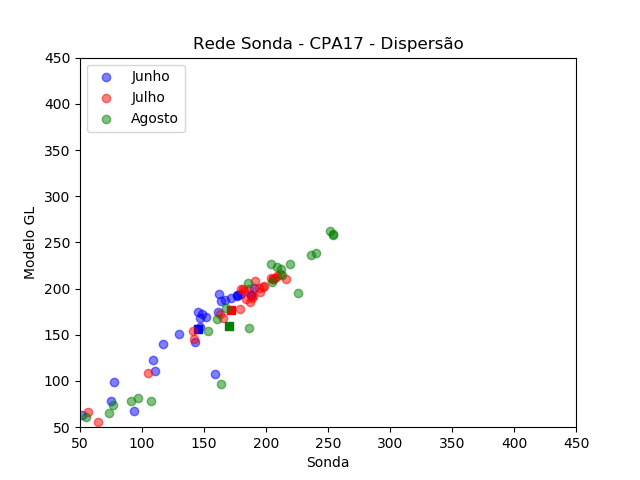
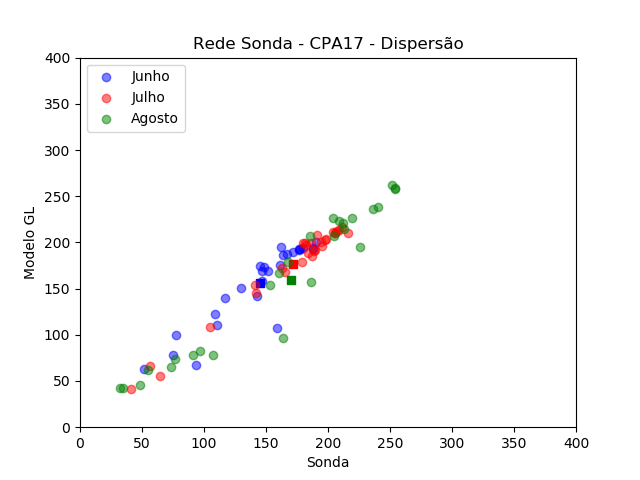
*

diff --git a/dispersao.py b/dispersao.py
@@ -1,7 +1,7 @@
 import matplotlib.pyplot as plt
-import csv
 import pandas as pd
 import numpy as np
+#import csv
 
 sigla = 'SMS'
 ano = 2017
@@ -23,25 +23,24 @@ def dispersao(posicao):
         mes = estacoes[posicao][j]
         arquivotxt = './DADOS/TXT/' + str(ano) + '/' + sigla + '/' + sigla + str(ano)[-2:] + format(mes, '02d') + '.txt'
 
-        reader = pd.read_csv(arquivotxt, header=None, sep='\t')
-        sonda = reader[1].values.tolist()
-        GL = reader[2].values.tolist()
+        try:
+            reader = pd.read_csv(arquivotxt, header=None, sep='\t')
+            sonda = reader[1].values.tolist()
+            GL = reader[2].values.tolist()
 
-        for i in range(len(sonda)):
-            if(sonda[i] > 1600) or sonda[i] == -999: sonda[i]=None
-            if(GL[i] > 1600) or GL[i] == -999: GL[i]=None
+            for i in range(len(sonda)):
+                if(sonda[i] > 1600) or sonda[i] == -999: sonda[i]=None
+                if(GL[i] > 1600) or GL[i] == -999: GL[i]=None
 
-        plt.scatter(sonda, GL, c=cor[j], label=meses[mes-1], alpha=0.5)
-
-        mediasonda = media(sonda)
-        mediaGL = media(GL)
-        plt.scatter(mediasonda, mediaGL, marker='s', c=cor[j], alpha=1.0)
+            plt.scatter(sonda, GL, c=cor[j], label=meses[mes-1], alpha=0.5)
+            plt.scatter(media(GL), media(GL), marker='s', c=cor[j], alpha=1.0)
             
+        except FileNotFoundError: pass
             
-        plt.xlim(50, 450)
-        plt.ylim(50, 450)
-        plt.legend(loc='upper left') #bbox_to_anchor=(0.5, 1), loc='upper left', borderaxespad=0.
-        plt.savefig('./DADOS/IMAGENS/' + sigla + '/' + '/Dispersao' + str(posicao+1) + '.png')
+    plt.xlim(0, 400)
+    plt.ylim(0, 400)
+    plt.legend(loc='upper left') #bbox_to_anchor=(0.5, 1), loc='upper left', borderaxespad=0.
+    plt.savefig('./DADOS/IMAGENS/' + sigla + '/' + '/Dispersao' + str(posicao+1) + '.png')
 
 # Soma todos os elementos de um array
 def media(array):
@@ -53,9 +52,9 @@ def media(array):
             count += 1
     return soma/(count-1)
 
-#for posicao in range(4):
-#    dispersao(posicao)
+for posicao in range(4):
+    dispersao(posicao)
 
-dispersao(1)
-dispersao(2)
+#dispersao(1)
+#dispersao(2)
 plt.show();
